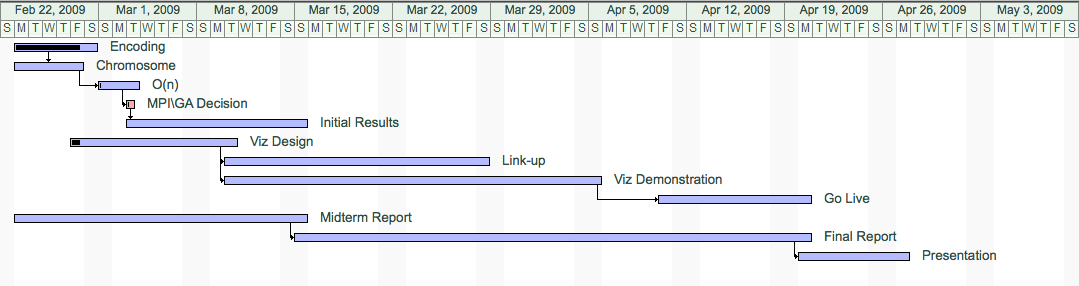
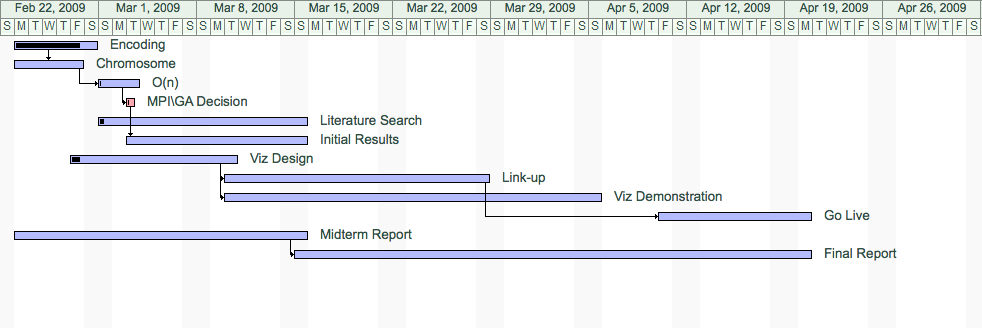
updated milestones.tex with a literautre search action, changed gantt chart too

Changed region(s): [[0.0, 0.0, 1.0, 0.7273], [0.0, 0.6993, 0.9165, 0.9231]]

diff --git a/report/milestones.tex b/report/milestones.tex
@@ -1,22 +1,21 @@
-\subsection{Milestones and Timeline}
-
 \begin{figure}[htp]
 \centering
 \includegraphics[width=1\textwidth]{images/gantt.png}
 \caption{Project timeline of major milestones}\label{fig:gantt}
 \end{figure}
-Figure \ref{fig:gantt} shows a detailed timeline for the completion of the project. The major milestones for all aspects of the project present, including necessary work for the creation of an optimization scheme to seach for universal turing machines as well as the creation of a web based visualization tool to faciliate the examination of the project results. The key to the task names used in Figure \ref{fig:gantt} is presented below. 
+Figure \ref{fig:gantt} shows a detailed timeline for the completion of the project. The major milestones for all aspects of the project present, including necessary work for the creation of an optimization scheme to seach for universal turing machines as well as the creation of a web based visualization tool to faciliate the examination of the project results. The key to the task names used in Figure \ref{fig:gantt} is presented below: 
 \begin{itemize}
-	\item Encoding:	Definition of the encoding method for Turing Machines completed
-	\item Chromosome:	Implementation of the chromosome class for the AI4R Genetic Algorithm package completed.
-	\item O(n):	Computational cost for fitness evaluation of a Turing Machine is determined.
-	\item MPI\\GA Decision:	Decision made regarding necessity of use for MPI along with AI4R Genetic Algorithm to reduce computation time.  
-	\item Initial Results:	Initial Turing Machine Optimization run completed. Data analyzed to ensure the viability of optimzation scheme
-	\item Viz Design:	Visualization web-app design complete
-	\item Link-up:	Link between genetic algorithm generation data and visualization database completed.
-	\item Viz Demonstration:	Ruby on Rails visualization application implementation completed.
-	\item Go Live:	Ruby on Rails visualization application goes live with link to genetic algorithm running perpetually.
-	\item Midterm Report:	Midterm Report Delivery
-	\item Final Report:	Final Report Delivery
-	\item Presentation:	Final Presentation
+	\item {\bf Encoding}:	Definition of the encoding method for Turing Machines completed
+	\item {\bf Chromosome}: Implementation of the chromosome class for the AI4R Genetic Algorithm package completed.
+	\item {\bf O(n)}:	Computational cost for fitness evaluation of a Turing Machine is determined.
+	\item {\bf MPI/GA Decision}:	Decision made regarding necessity of use for MPI along with AI4R Genetic Algorithm to reduce computation time.
+	\item {\bf Litearture Search}: Literature search to generate a list of known UTM  
+	\item {\bf Initial Results}: Initial Turing Machine Optimization run completed. Data analyzed to ensure the viability of optimzation scheme
+	\item {\bf Viz Design}: Visualization web-app design complete
+	\item {\bf Link-up}: Link between genetic algorithm generation data and visualization database completed.
+	\item {\bf Viz Demonstration}: Ruby on Rails visualization application implementation completed.
+	\item {\bf Go Live}: Ruby on Rails visualization application goes live with link to genetic algorithm running perpetually.
+	\item {\bf Midterm Report}: Midterm Report Delivery
+	\item {\bf Final Report}: Final Report Delivery
+	\item {\bf Presentation}:	Final Presentation
 \end{itemize}

diff --git a/report/report.tex b/report/report.tex
@@ -31,7 +31,7 @@ Neil Sandberg \\
 
 \input plan
 
-\section{Milestones}
+\section{Project Timeline}
 
 \input milestones
 
